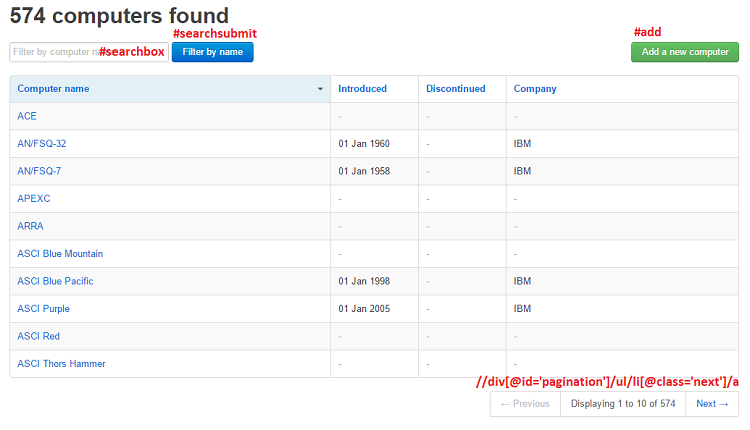
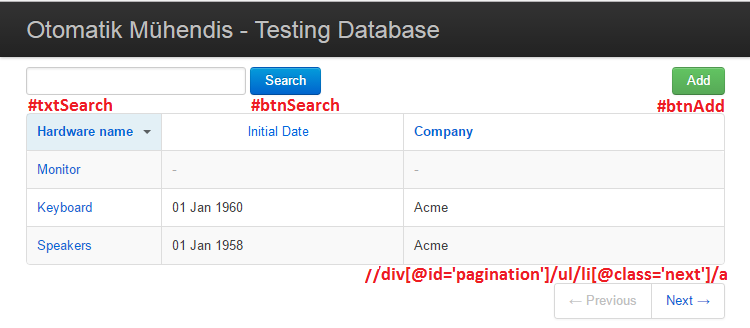
Post updated

diff --git a/_posts/2016-10-08-junit-selenium-ile-functional-testing.md b/_posts/2016-10-08-junit-selenium-ile-functional-testing.md
@@ -40,19 +40,19 @@ public class Edit_Page {
   }
   
   public WebElement txt_Name(){
-    return _driver.findElement(By.id("name"));
+    return _driver.findElement(By.id("txtName"));
   }
   
-  public WebElement txt_Introduced(){
-    return _driver.findElement(By.id("introduced"));
+  public WebElement txt_InitialDate(){
+    return _driver.findElement(By.id("txtInitialDate"));
   }
   
   public WebElement slc_Company(){
-    return _driver.findElement(By.id("company"));
+    return _driver.findElement(By.id("listCompany"));
   }
   
   public WebElement btn_Save(){
-    return _driver.findElement(By.cssSelector("input.btn.primary"));
+    return _driver.findElement(By.cssSelector("input[type='submit']"));
   }
   
   public WebElement btn_Cancel(){
@@ -60,7 +60,7 @@ public class Edit_Page {
   }
   
   public WebElement btn_Remove(){
-    return _driver.findElement(By.cssSelector("#main > form.topRight > input"));
+    return _driver.findElement(By.cssSelector("#frmEdit.top > input"));
   }
 }
 {% endhighlight %}
@@ -93,15 +93,15 @@ public class List_Page {
   }
   
   public WebElement btn_Add(){
-    return _driver.findElement(By.id("add"));
+    return _driver.findElement(By.id("btnAdd"));
   }
   
-  public WebElement txt_Filter(){
-    return _driver.findElement(By.id("searchbox"));
+  public WebElement txt_Search(){
+    return _driver.findElement(By.id("txtSearch"));
   }
   
-  public WebElement btn_Filter(){
-    return _driver.findElement(By.id("searchsubmit"));
+  public WebElement btn_Search(){
+    return _driver.findElement(By.id("btnSearch"));
   }
   
   public WebElement btn_Link(String text){
@@ -154,7 +154,7 @@ public class hardwareDatabase {
   private static String baseUrl;
   
   public static String hardwareName = "testMakinasi"; 
-  public static String introduced = "1995-01-01"; 
+  public static String initialDate = "1995-01-01"; 
   public static String hardwareNameUpdated = "güncellenenTestMakinasi";
   public static String companyName = "Otomatik Mühendis";
   
@@ -194,8 +194,8 @@ public class hardwareDatabase {
     editPage.txt_Name().clear();
     editPage.txt_Name().sendKeys(hardwareName);
     
-    editPage.txt_Introduced().clear();
-    editPage.txt_Introduced().sendKeys(introduced);
+    editPage.txt_InitialDate().clear();
+    editPage.txt_InitialDate().sendKeys(initialDate);
     
     //Dropdown listesinden seçim yapılıyor
     new Select(editPage.slc_Company()).selectByVisibleText(companyName);
@@ -207,10 +207,10 @@ public class hardwareDatabase {
   public void test02searchHardware() throws Exception {
     //Eklediğimiz nesneyi bul
 
-    listPage.txt_Filter().clear();
-    listPage.txt_Filter().sendKeys(hardwareName);
+    listPage.txt_Search().clear();
+    listPage.txt_Search().sendKeys(hardwareName);
     
-    listPage.btn_Filter().click();
+    listPage.btn_Search().click();
     
     listPage.btn_Link(hardwareName).click();
     
@@ -219,12 +219,12 @@ public class hardwareDatabase {
   
   @Test
   public void test03updateHardware() throws Exception {
-    //Eklediğimiz nesneyi bulup güncelleye ve yeni ismiyle tekrar ara
+    //Eklediğimiz nesneyi bulup güncelle ve yeni ismiyle tekrar ara
 
-    listPage.txt_Filter().clear();
-    listPage.txt_Filter().sendKeys(hardwareName);
+    listPage.txt_Search().clear();
+    listPage.txt_Search().sendKeys(hardwareName);
     
-    listPage.btn_Filter().click();
+    listPage.btn_Search().click();
     
     listPage.btn_Link(hardwareName).click();
     
@@ -233,10 +233,10 @@ public class hardwareDatabase {
     
     editPage.btn_Save().click();
     
-    listPage.txt_Filter().clear();
-    listPage.txt_Filter().sendKeys(hardwareNameUpdated);
+    listPage.txt_Search().clear();
+    listPage.txt_Search().sendKeys(hardwareNameUpdated);
     
-    listPage.btn_Filter().click();
+    listPage.btn_Search().click();
     
     listPage.btn_Link(hardwareNameUpdated).click();
     
@@ -247,10 +247,10 @@ public class hardwareDatabase {
   public void test04deleteHardware() throws Exception {
     //Güncellenen nesneyi kaldır
 
-    listPage.txt_Filter().clear();
-    listPage.txt_Filter().sendKeys(hardwareNameUpdated);
+    listPage.txt_Search().clear();
+    listPage.txt_Search().sendKeys(hardwareNameUpdated);
     
-    listPage.btn_Filter().click();
+    listPage.btn_Search().click();
     
     listPage.btn_Link(hardwareNameUpdated).click();
     
